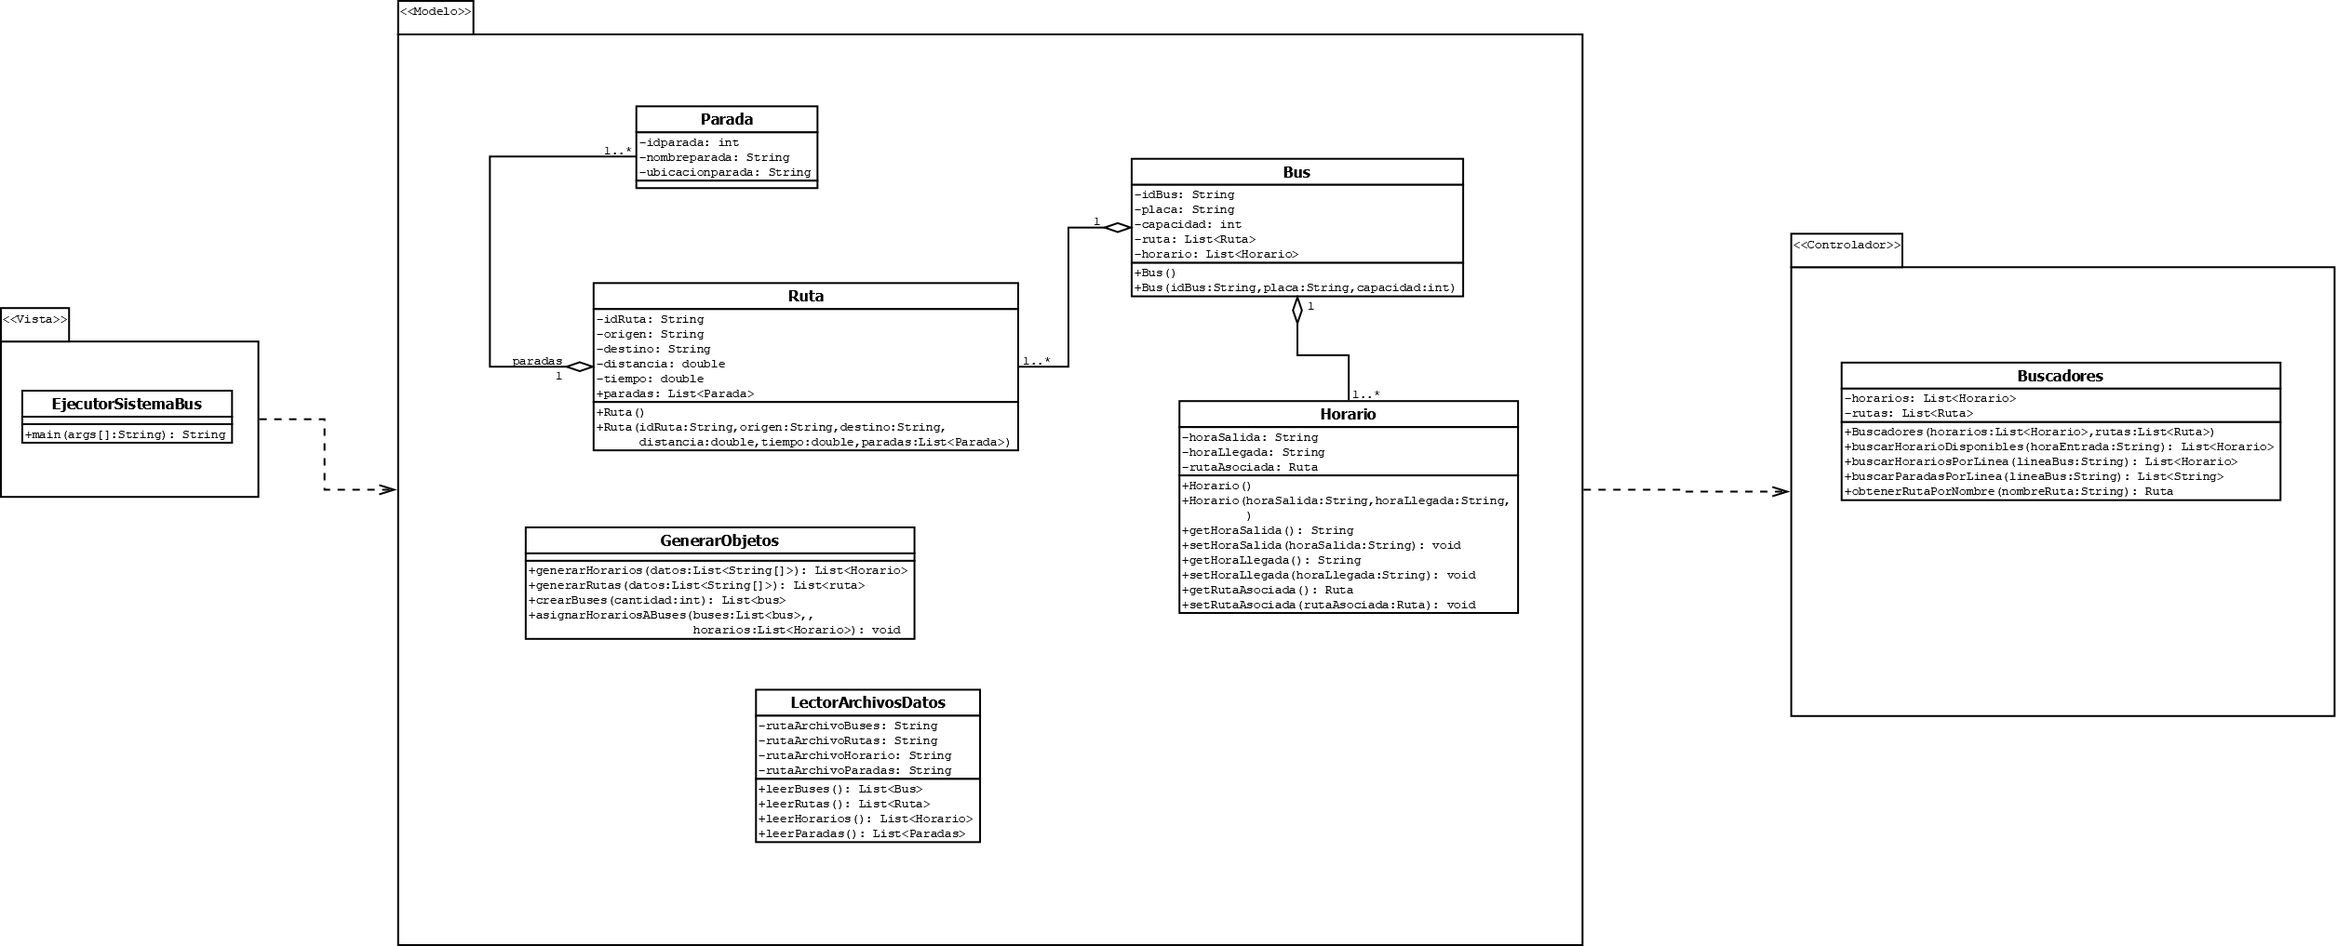
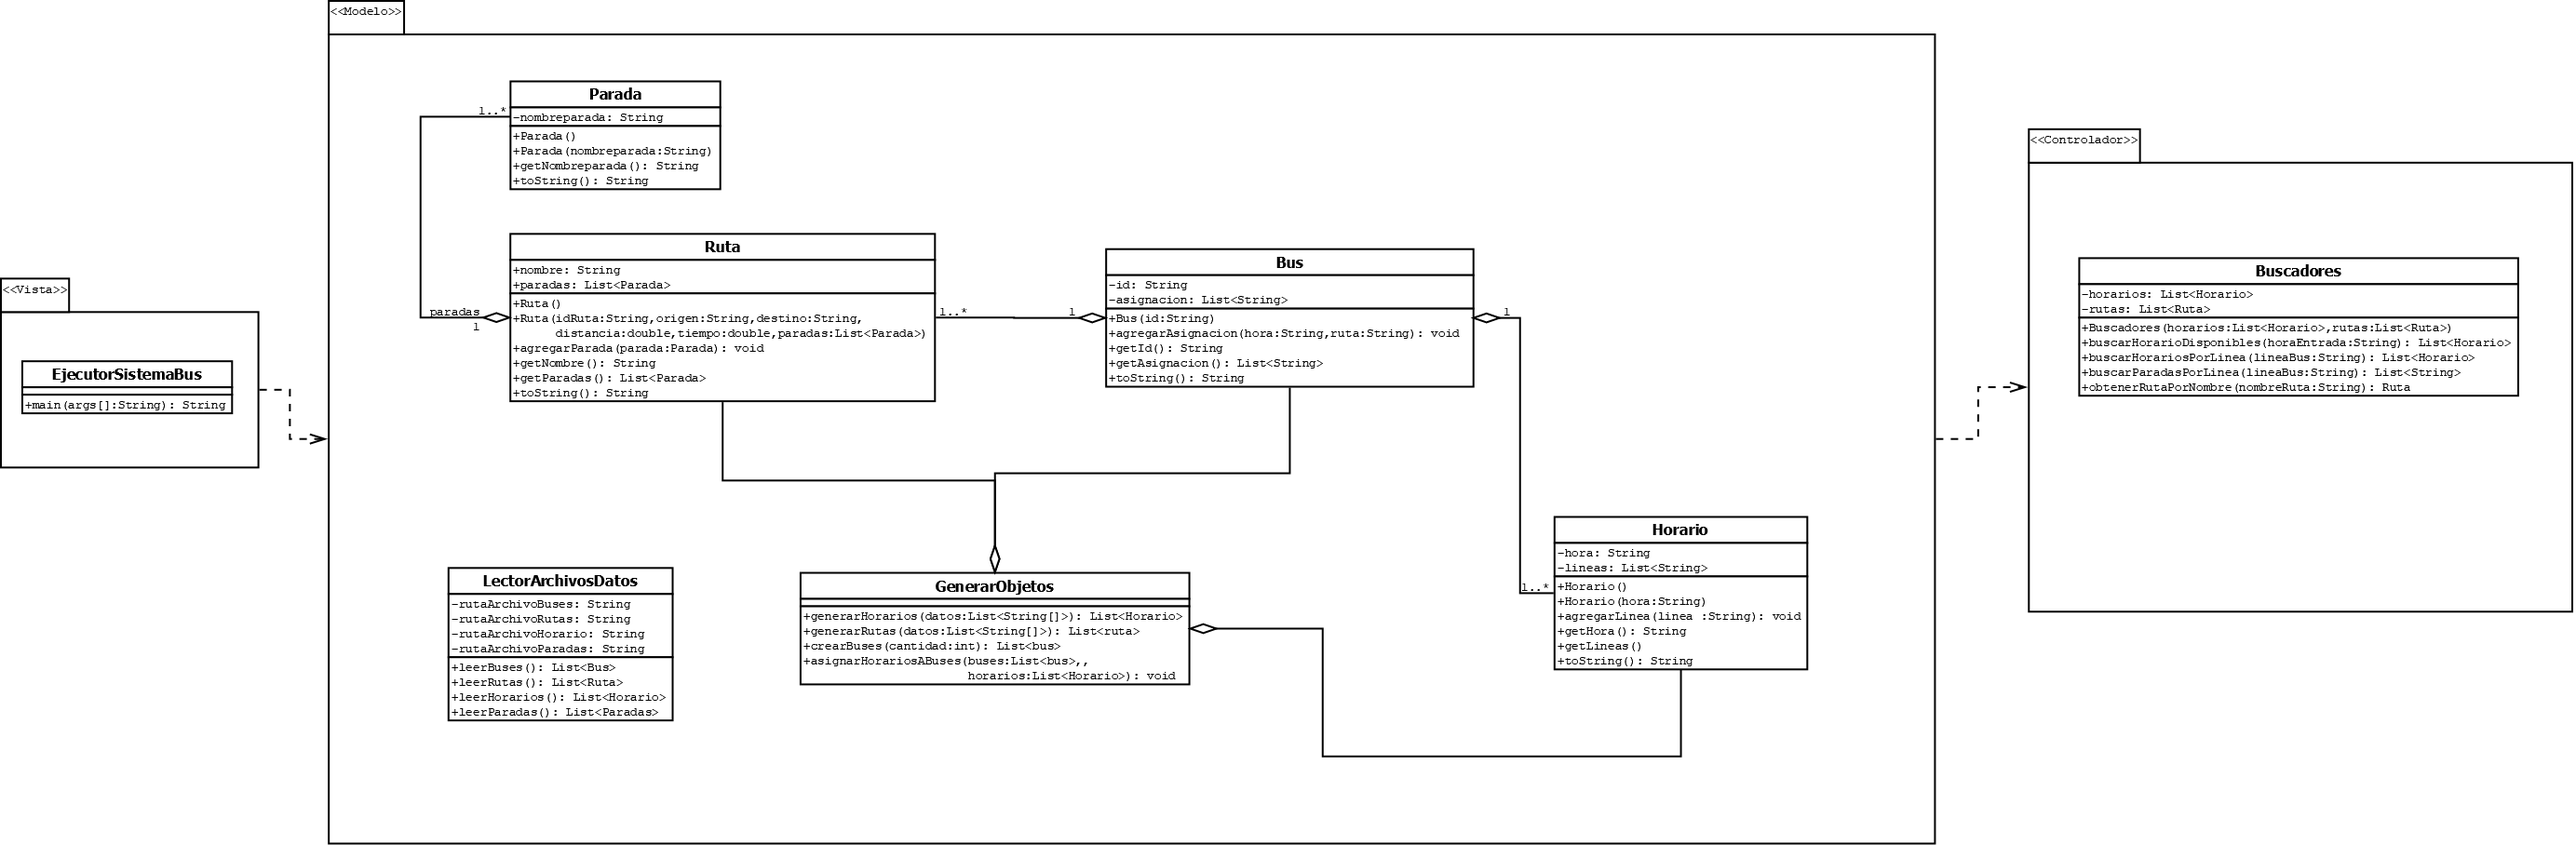
Correcciones

diff --git a/Solucion_Codigo/SistemaBus/src/controller/buscadores.java b/Solucion_Codigo/SistemaBus/src/controller/buscadores.java
@@ -1,25 +1,24 @@
 package Solucion_Codigo.SistemaBus.src.controller;
 import Solucion_Codigo.SistemaBus.src.model.Horario;
-import Solucion_Codigo.SistemaBus.src.model.parada;
-import Solucion_Codigo.SistemaBus.src.model.ruta;
+import Solucion_Codigo.SistemaBus.src.model.Parada;
+import Solucion_Codigo.SistemaBus.src.model.Ruta;
 import java.util.ArrayList;
 import java.util.List;
-public class buscadores {
+public class Buscadores {
     private List<Horario> horarios;
-    private List<ruta> rutas;
-    public buscadores(List<Horario> horarios, List<ruta> rutas) {
+    private List<Ruta> rutas;
+    public Buscadores(List<Horario> horarios, List<Ruta> rutas) {
         this.horarios = horarios;
         this.rutas = rutas;
     }
-        /**
-     * Busca los horarios disponibles dentro de un rango de 15 a 30 minutos
-     * después de la hora dada en formato "h:mm a.m." o "h:mm p.m."
-     *
+    /**
+     * Busca los horarios disponibles dentro de un rango de 0 a 30 minutos después de la hora dada en formato "h:mm a.m." o "h:mm p.m."
      * @param horaEntrada Hora en formato "4:15 p.m."
      * @return lista de Horarios que cumplen el criterio
      */
     public List<Horario> buscarHorariosDisponibles(String horaEntrada) {
         List<Horario> resultados = new ArrayList<>();
+        boolean esUltimoHorario = true; // Para verificar si se alcanzó el último horario
         try {
             String[] partesHora = horaEntrada.trim().split("[: ]+");
             if (partesHora.length < 3) {
@@ -48,14 +47,38 @@ public class buscadores {
                 }
                 int minutosHorarioTotales = horaHorario * 60 + minutosHorario;
                 int diferencia = minutosHorarioTotales - minutosEntrada;
-                if (diferencia >= 15 && diferencia <= 30) {
+                // Incluir el horario exacto y buscar dentro del rango de 0 a 30 minutos
+                if (diferencia >= 0 && diferencia <= 30) {
                     resultados.add(h);
+                    esUltimoHorario = false; // Hay horarios disponibles después de la hora ingresada
                 }
+            }
+            // Mensaje si se alcanzó el último horario
+            if (esUltimoHorario) {
+                System.out.println("Último horario alcanzado. No hay más buses después de " + horaEntrada + ".");
             }
         } catch (NumberFormatException e) {
             // Retornar lista vacía si error al parsear
         }
         return resultados;
+    }
+    /**
+     * Busca las paradas disponibles para una línea de bus específica.
+     *
+     * @param lineaBus Línea de bus a buscar
+     * @return lista de paradas que pertenecen a la línea especificada
+     */
+    public List<String> buscarParadasPorLinea(String lineaBus) {
+        for (Ruta r : rutas) {
+            if (r.getNombreruta().equalsIgnoreCase(lineaBus)) {
+                List<String> nombresParadas = new ArrayList<>();
+                for (Parada p : r.getParadas()) {
+                    nombresParadas.add(p.getNombreparada());
+                }
+                return nombresParadas;
+            }
+        }
+        return new ArrayList<>();
     }
     /**
      * Busca los horarios disponibles para una línea de bus específica.
@@ -75,39 +98,27 @@ public class buscadores {
         }
         return resultados;
     }
-    /**
-     * Busca las paradas disponibles para una línea de bus específica.
-     *
-     * @param lineaBus Línea de bus a buscar
-     * @return lista de paradas que pertenecen a la línea especificada
-     */
-    public List<String> buscarParadasPorLinea(String lineaBus) {
-        for (ruta r : rutas) {
-            if (r.getnombre().equalsIgnoreCase(lineaBus)) {
-                List<String> nombresParadas = new ArrayList<>();
-                for (parada p : r.getParadas()) {
-                    nombresParadas.add(p.getNombre());
-                }
-                return nombresParadas;
-            }
-        }
-        return new ArrayList<>();
-    }
-    /**
-     * Obtiene la ruta dado su nombre.
-     *
-     * @param nombreRuta El nombre de la ruta a buscar.
-     * @return El objeto ruta si se encuentra, null en caso contrario.
-     */
-    public ruta obtenerRutaPorNombre(String nombreRuta) {
-        for (ruta r : rutas) {
-            if (r.getnombre().equalsIgnoreCase(nombreRuta)) {
+    public Ruta obtenerRutaPorNombre(String nombreRuta) {
+        for (Ruta r : rutas) {
+            if (r.getNombreruta().equalsIgnoreCase(nombreRuta)) {
                 return r;
             }
         }
         return null;
     }
-    public List<ruta> obtenerTodasLasRutas() {
-        return rutas;
+    /**
+     * Muestra los horarios encontrados y un mensaje sobre la espera de los buses.
+     * @param horarios Lista de horarios encontrados
+     */
+    public void mostrarHorarios(List<Horario> horarios) {
+        if (horarios == null || horarios.isEmpty()) {
+            System.out.println("No se encontraron horarios disponibles.");
+            return;
+        }
+        System.out.println("Horarios disponibles:");
+        for (Horario h : horarios) {
+            System.out.println(h);
+        }
+        System.out.println("Los buses esperan 5 minutos más para recoger a todos los pasajeros.");
     }
 }

diff --git a/Solucion_Codigo/SistemaBus/src/view/vista.java b/Solucion_Codigo/SistemaBus/src/view/vista.java
@@ -1,7 +1,7 @@
 package Solucion_Codigo.SistemaBus.src.view;
 import Solucion_Codigo.SistemaBus.src.model.Horario;
-import Solucion_Codigo.SistemaBus.src.controller.buscadores;
-import Solucion_Codigo.SistemaBus.src.model.ruta;
+import Solucion_Codigo.SistemaBus.src.controller.Buscadores;
+import Solucion_Codigo.SistemaBus.src.model.Ruta;
 import java.util.List;
 import java.util.Scanner;
 public class vista {
@@ -14,17 +14,18 @@ public class vista {
      *
      * @param buscadores Controlador para buscar horarios
      */
-    public void solicitarOpcion(buscadores buscadores) {
+    public void solicitarOpcion(Buscadores buscadores) {
         int opcion = 0; // Inicializar la opción para evitar errores de compilación
         System.out.println("¿Qué desea buscar?");
         System.out.println("1. Línea de bus");
         System.out.println("2. Horario");
         System.out.print("Seleccione una opción (1 o 2): ");
         opcion = scanner.nextInt();
+        scanner.nextLine(); // <--- AÑADE ESTA LÍNEA
         try {
             switch (opcion) {
                 case 1 -> buscarPorLinea(buscadores);
-                case 2 ->buscarPorHora(buscadores);
+                case 2 -> buscarPorHora(buscadores);
                 default ->{
                     System.out.print("Opción no válida. Intente de nuevo (1 o 2): ");
                 }
@@ -59,12 +60,12 @@ public class vista {
         } while (lineaBus == null || lineaBus.trim().isEmpty());
         return lineaBus;
     }
-    private void buscarPorLinea(buscadores buscadores) {
+    private void buscarPorLinea(Buscadores buscadores) {
         String lineaBus = pedirLineaBus();
         List<Horario> horarios = buscadores.buscarHorariosPorLinea(lineaBus);
         mostrarHorariosConDetalles(horarios, lineaBus, buscadores); // Mostrar detalles de ruta
     }
-    private void buscarPorHora(buscadores buscadores) {
+    private void buscarPorHora(Buscadores buscadores) {
         String hora = pedirHora();
         if (hora != null) {
             List<Horario> horarios = buscadores.buscarHorariosDisponibles(hora);
@@ -78,7 +79,7 @@ public class vista {
      * @param lineaBus   Línea de bus consultada
      * @param buscadores Controlador para buscar información adicional (ruta)
      */
-    private void mostrarHorariosConDetalles(List<Horario> horarios, String lineaBus, buscadores buscadores) {
+    private void mostrarHorariosConDetalles(List<Horario> horarios, String lineaBus, Buscadores buscadores) {
         if (horarios == null || horarios.isEmpty()) {
             System.out.println("No se encontraron horarios para la línea: " + lineaBus);
             return;
@@ -90,7 +91,7 @@ public class vista {
             if (h.getLineas().contains(lineaBus)) { // Solo mostrar si contiene la línea buscada
                 System.out.printf("%-10s\n", h.getHora());
                 // Mostrar la ruta para la línea
-                ruta rutaBus = buscadores.obtenerRutaPorNombre(lineaBus); // Usar el método del buscador
+                Ruta rutaBus = buscadores.obtenerRutaPorNombre(lineaBus); // Usar el método del buscador
                 if (rutaBus != null) {
                     System.out.println(rutaBus.toString());
                 } else {

diff --git a/Solucion_Codigo/SistemaBus/src/model/generarObjetos.java b/Solucion_Codigo/SistemaBus/src/model/generarObjetos.java
@@ -4,6 +4,7 @@ import java.util.List;
 public class generarObjetos {
     public static List<Horario> generarHorarios(List<String[]> datos) {
         List<Horario> horarios = new ArrayList<>();
+        
         for (String[] fila : datos) {
             if (fila.length < 1) continue;
             String hora = fila[0].trim();
@@ -18,30 +19,30 @@ public class generarObjetos {
         }
         return horarios;
     }
-    public static List<ruta> generarRutas(List<String[]> datos) {
-        List<ruta> rutas = new ArrayList<>();
+    public static List<Ruta> generarRutas(List<String[]> datos) {
+        List<Ruta> rutas = new ArrayList<>();
         for (String[] fila : datos) {
             if (fila.length < 2) continue;
             String nombreLinea = fila[0].trim();
-            ruta rut = new ruta(nombreLinea);
+            Ruta rut = new Ruta(nombreLinea);
             for (int i = 1; i < fila.length; i++) {
                 String parada = fila[i].trim();
                 if (!parada.isEmpty()) {
-                    rut.agregarParada(new parada(parada));
+                    rut.agregarParada(new Parada(parada));
                 }
             }
             rutas.add(rut);
         }
         return rutas;
     }
-    public static List<bus> crearBuses(int cantidad) {
-        List<bus> buses = new ArrayList<>();
+    public static List<Bus> crearBuses(int cantidad) {
+        List<Bus> buses = new ArrayList<>();
         for (int i = 1; i <= cantidad; i++) {
-            buses.add(new bus("Bus-" + i));
+            buses.add(new Bus("Bus-" + i));
         }
         return buses;
     }
-    public static void asignarHorariosABuses(List<bus> buses, List<Horario> horarios) {
+    public static void asignarHorariosABuses(List<Bus> buses, List<Horario> horarios) {
         int busIndex = 0;
         for (Horario horario : horarios) {
             for (String linea : horario.getLineas()) {

diff --git a/Solucion_Codigo/SistemaBus/src/model/ruta.java b/Solucion_Codigo/SistemaBus/src/model/ruta.java
@@ -2,27 +2,27 @@ package Solucion_Codigo.SistemaBus.src.model;
 import java.io.Serializable;
 import java.util.ArrayList;
 import java.util.List;
-public class ruta implements Serializable{
-    public String nombre;
-    public List<parada> paradas;
-    public ruta(String nombre) {
-        this.nombre = nombre;
+public class Ruta implements Serializable{
+    public String nombreruta;
+    public List<Parada> paradas;
+    public Ruta(String nombreRuta) {
+        this.nombreruta = nombreRuta;
         this.paradas = new ArrayList<>();
     }
-    public void agregarParada(parada parada) {
+    public void agregarParada(Parada parada) {
         paradas.add(parada);
     }
-    public String getnombre() {
-        return nombre;
+    public String getNombreruta() {
+        return this.nombreruta;
     }
-    public List<parada> getParadas() {
-        return paradas;
+    public List<Parada> getParadas() {
+        return this.paradas;
     }
     @Override
     public String toString() {
-        StringBuilder sb = new StringBuilder("Ruta: " + nombre + ": ");
-        for (parada p : paradas) {
-            sb.append(p.getNombre()).append(" → ");
+        StringBuilder sb = new StringBuilder("Ruta: " + this.nombreruta + ": ");
+        for (Parada p : paradas) {
+            sb.append(p.getNombreparada()).append(" → ");
         }
         sb.setLength(sb.length() - 3); // eliminar la última flecha
         return sb.toString();

diff --git a/Solucion_Codigo/SistemaBus/src/Main.java b/Solucion_Codigo/SistemaBus/src/Main.java
@@ -1,6 +1,6 @@
 package Solucion_Codigo.SistemaBus.src;
 import java.util.Scanner;
-import Solucion_Codigo.SistemaBus.src.controller.buscadores;
+import Solucion_Codigo.SistemaBus.src.controller.Buscadores;
 import Solucion_Codigo.SistemaBus.src.view.vista;
 import java.util.List;
 import Solucion_Codigo.SistemaBus.src.model.*;
@@ -14,12 +14,12 @@ public class Main {
         List<String[]> datosRutas = lector.leerRutas(rutaRutas); // Leer rutas
         List<Horario> horarios = generarObjetos.generarHorarios(datosHorarios);
         List<ruta> rutas = generarObjetos.generarRutas(datosRutas);
-        List<bus> buses = generarObjetos.crearBuses(5); // ejemplo: 5 buses
+        List<Bus> buses = generarObjetos.crearBuses(5); // ejemplo: 5 buses
         // Asignar horarios a buses
         generarObjetos.asignarHorariosABuses(buses, horarios);
         generarObjetos.asignarHorariosABuses(buses, horarios);
         // Instanciar controlador y vista
-        buscadores buscadores = new buscadores(horarios, rutas); // Pasar rutas a buscadores
+        Buscadores buscadores = new Buscadores(horarios, rutas); // Pasar rutas a buscadores
         vista vista = new vista();
         do {
             // Solicitar opción al usuario

diff --git a/Solucion_Codigo/SistemaBus/src/model/bus.java b/Solucion_Codigo/SistemaBus/src/model/bus.java
@@ -2,10 +2,10 @@ package Solucion_Codigo.SistemaBus.src.model;
 import java.io.Serializable;
 import java.util.ArrayList;
 import java.util.List;
-    public class bus implements Serializable{
+    public class Bus implements Serializable{
     public String id;
     public List<String> asignacion;
-    public bus (String id){
+    public Bus (String id){
         this.id=id;
         this.asignacion=new ArrayList<>();
     }
@@ -22,7 +22,7 @@ import java.util.List;
     public String toString() {
         StringBuilder sb = new StringBuilder("Bus " + id + "\n");
         for (String asigna : asignacion) {
-            sb.append("   ").append(asignacion).append("\n");
+            sb.append("   ").append(asigna).append("\n");
         }
         return sb.toString();
     }

diff --git a/Solucion_Codigo/SistemaBus/src/model/parada.java b/Solucion_Codigo/SistemaBus/src/model/parada.java
@@ -1,16 +1,15 @@
 package Solucion_Codigo.SistemaBus.src.model;
 import java.io.Serializable;
-public class parada implements Serializable{
-    private String nombre;
-    public parada(String nombre) {
-        this.nombre = nombre;
+public class Parada implements Serializable{
+    private String nombreparada;
+    public Parada(String nombreparada) {
+        this.nombreparada = nombreparada;
     }
-    public String getNombre() {
-        return nombre;
+    public String getNombreparada() {
+        return this.nombreparada;
     }
     @Override
     public String toString() {
-        return nombre;
+        return this.nombreparada;
     }
-    
 }

diff --git a/Solucion_Codigo/SistemaBus/src/model/Horario.java b/Solucion_Codigo/SistemaBus/src/model/Horario.java
@@ -5,6 +5,7 @@ import java.util.List;
 public class Horario implements Serializable{
     private String hora;
     private List<String> lineas;
+    public Horario(){}
     public Horario(String hora) {
         this.hora = hora;
         this.lineas = new ArrayList<>();
